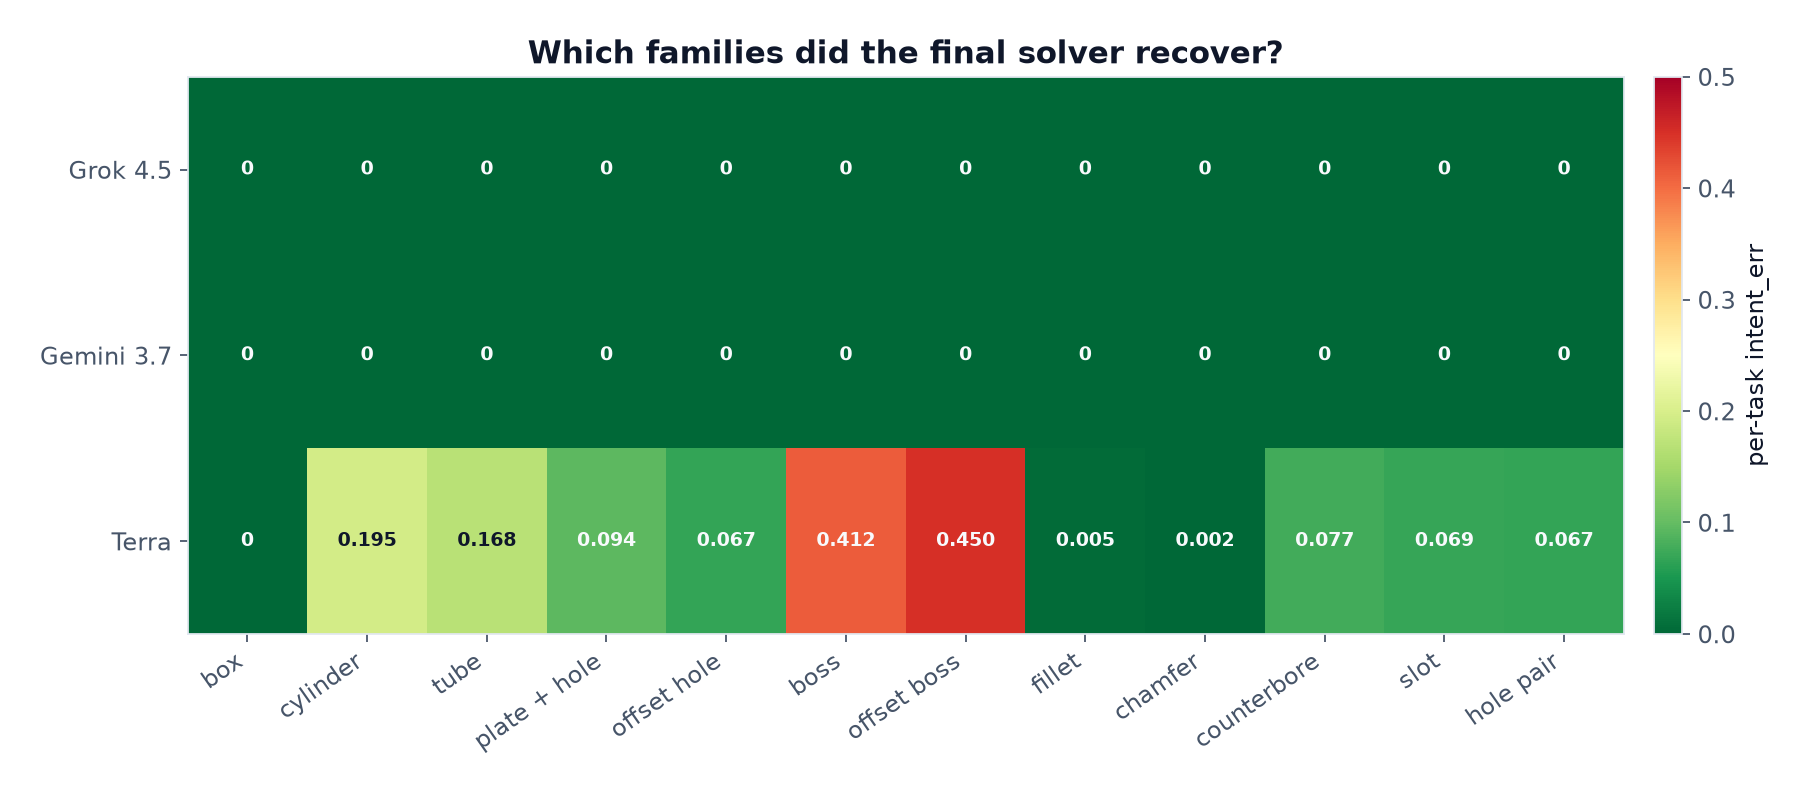
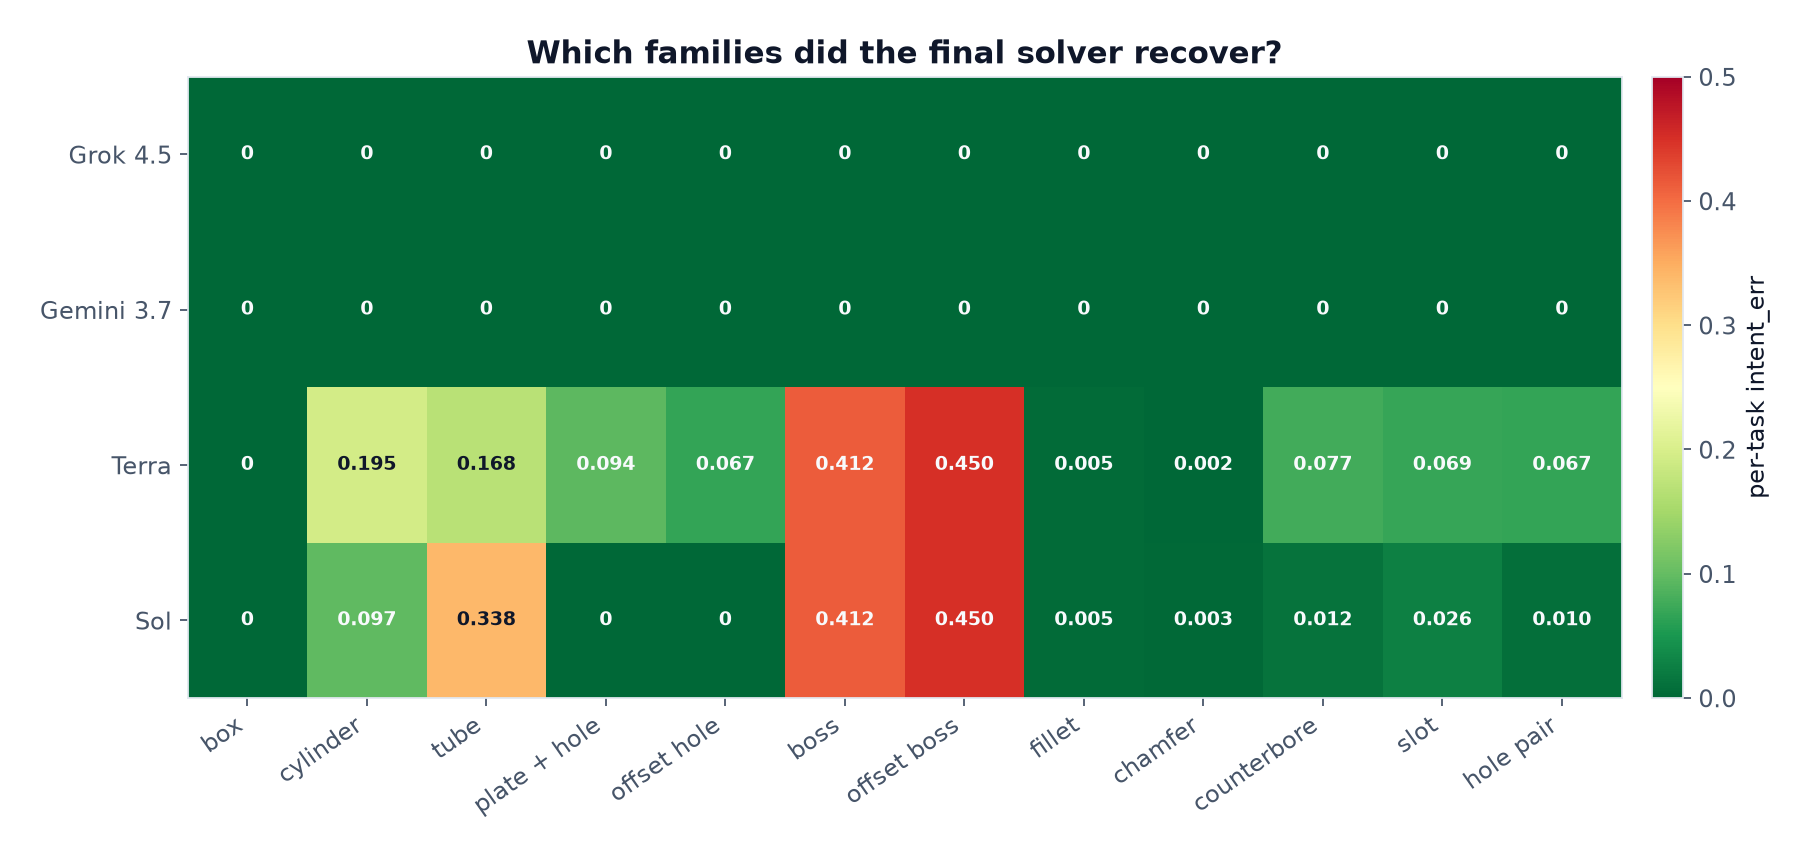
Append the GPT-5.6 Sol medium 20-generation result
Sol finished at intent_err 0.113 with 7 keeps — ahead of Terra high
(0.134 / 4 keeps), still short of the Grok and Gemini zeros. Recovered
the hole plates; bosses and the tube stayed open.

diff --git a/README.md b/README.md
@@ -8,15 +8,16 @@ The question is not “can you match this one STEP file?” It is “did you rec
 
 ![accepted frontier](plots/race.png)
 
-Same starting solver. Same twelve families. Same 20-generation budget. Three researchers.
+Same starting solver. Same twelve families. Same 20-generation budget. Four researchers.
 
 | Researcher | Harness | Final `intent_err` | Accepted steps | Solved at |
 |---|---|---:|---:|---|
 | **Grok 4.5** high | grok CLI | **0.000** | 14 | gen 15 |
 | **Gemini 3.7 Flash** high | Antigravity (`agy`) | **0.000** | 8 | gen 9 |
+| **GPT-5.6 Sol** medium | Codex | 0.113 | 7 | — |
 | **GPT-5.6 Terra** high | Codex | 0.134 | 4 | — |
 
-Gemini recovered the whole set in eight accepted steps. Grok got there too, with a longer staircase. Terra learned the box, a cylinder, a tube, and a chamfer, then spent the rest of the budget trying to *recognize* topology on the observed solid instead of letting parameter **names** drive the builder.
+Gemini recovered the whole set in eight accepted steps. Grok got there too, with a longer staircase. Both Codex arms climbed partway: Sol (medium) finished ahead of Terra (high), 0.113 vs 0.134, by binding plate thickness and the two hole families. Neither recovered bosses.
 
 ## The big picture
 
@@ -53,25 +54,25 @@ Keep if strictly lower. Equal or worse is a discard. Rejects stay in the log and
 
 ## The race
 
-Three coding-agent configurations. One hypothesized change per generation. 20 generations.
+Four coding-agent configurations. One hypothesized change per generation. 20 generations.
 
 ![summary](plots/summary.png)
 
-| | Grok 4.5 | Gemini 3.7 Flash | GPT-5.6 Terra |
-|---|---:|---:|---:|
-| Start | 0.258 | 0.258 | 0.258 |
-| End | **0.000** | **0.000** | 0.134 |
-| Keeps | 14 | 8 | 4 |
-| Discards | 6 | 12 | 16 |
-| Wall time | 31 min | 22 min | 14 min |
+| | Grok 4.5 | Gemini 3.7 Flash | GPT-5.6 Sol | GPT-5.6 Terra |
+|---|---:|---:|---:|---:|
+| Start | 0.258 | 0.258 | 0.258 | 0.258 |
+| End | **0.000** | **0.000** | 0.113 | 0.134 |
+| Keeps | 14 | 8 | 7 | 4 |
+| Discards | 6 | 12 | 13 | 16 |
+| Effort | high | high | medium | high |
 
-Raw logs: [`examples/grok-4.5-high.tsv`](examples/grok-4.5-high.tsv) · [`examples/gemini-3.7-flash-high.tsv`](examples/gemini-3.7-flash-high.tsv) · [`examples/gpt-5.6-terra-high.tsv`](examples/gpt-5.6-terra-high.tsv)
+Raw logs: [`examples/grok-4.5-high.tsv`](examples/grok-4.5-high.tsv) · [`examples/gemini-3.7-flash-high.tsv`](examples/gemini-3.7-flash-high.tsv) · [`examples/gpt-5.6-sol-medium.tsv`](examples/gpt-5.6-sol-medium.tsv) · [`examples/gpt-5.6-terra-high.tsv`](examples/gpt-5.6-terra-high.tsv)
 
 ### What they actually recovered
 
 ![per-family error](plots/families.png)
 
-Grok and Gemini finished at zero on every family. Terra’s leftover error is concentrated: bosses barely moved (centroid still wrong), the cylinder is still a box-ish stand-in, and the hole families are only partly parameterized.
+Grok and Gemini finished at zero on every family. Sol recovered the box and both hole plates, then stalled on bosses (centroid still wrong) and the tube. Terra missed those hole families and the bosses too. Same hill, different leftover error.
 
 That is the eval doing its job. A solver can look plausible on the observed member and still fail the held-out sizes.
 
@@ -85,7 +86,11 @@ That is the eval doing its job. A solver can look plausible on the observed memb
 
 ![grok progress](plots/progress-grok-4.5.png)
 
-**GPT-5.6 Terra** tried a different strategy: infer the family from the *observed solid’s topology*, then bind names. That recovered the box, a vertical cylinder, a chamfer, and a tube. Most of the other hypotheses (spheres, cones, tori, polygons, countersinks, pockets) were not on the hill, so they discarded. The log is honest: sixteen rejects, four keeps, frontier stuck at 0.134.
+**GPT-5.6 Sol** (medium) bound height, then width, then depth — one axis per keep — plus a cylinder, plate thickness, a centered hole, and an offset hole. Generation 1 made the score *worse* (0.39) and was discarded. The late keeps are the interesting ones: `thick` at gen 15, then the two hole families. Bosses and the tube never landed. Seven keeps, frontier 0.113.
+
+![sol progress](plots/progress-gpt-5.6-sol.png)
+
+**GPT-5.6 Terra** (high) tried a different strategy: infer the family from the *observed solid’s topology*, then bind names. That recovered the box, a vertical cylinder, a chamfer, and a tube. Most of the other hypotheses (spheres, cones, tori, polygons, countersinks, pockets) were not on the hill, so they discarded. Sixteen rejects, four keeps, frontier stuck at 0.134.
 
 ![terra progress](plots/progress-gpt-5.6-terra.png)
 
@@ -116,10 +121,11 @@ python prepare.py score
 # Local dummy researcher — ≥10 accepted steps
 python prepare.py loop --agent dummy --gens 15 --workdir runs/dummy
 
-# The three arms from this writeup
+# The four arms from this writeup
 make grok45    # grok CLI    · grok-4.5              · high
 make gemini    # antigravity · gemini-3.7-flash-high · high
 make terra     # Codex       · gpt-5.6-terra         · high
+make sol       # Codex       · gpt-5.6-sol           · medium
 
 # Draw the race from examples/*.tsv
 python plots.py
